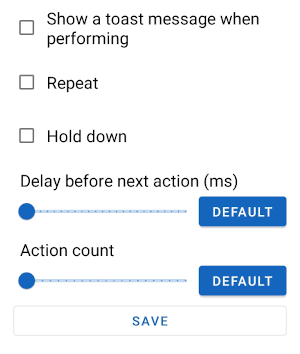
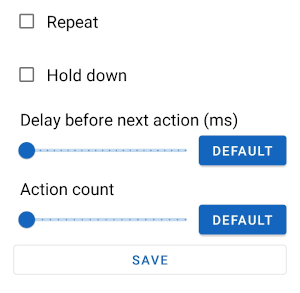
website: complete keymaps.md

diff --git a/docs/user-guide/keymaps.md b/docs/user-guide/keymaps.md
@@ -1,6 +1,105 @@
-## Options
+ Refer to the [Quick Start Guide](../quick-start.md) for help with creating key maps. This page gives more detail about every option.
 
-There are options for each trigger key by pressing the 3-dots on them. There are also more options for the whole trigger under the "options" tab. Here are explanations of each option.
+## Trigger
+
+A trigger is a combination of keys that must be pressed in a certain way to 'trigger' the key map. A key map can only have one trigger. You can change the order of the keys by holding down on one and then dragging it into a new position.
+ 
+This is the page to create a trigger for a key map.
+
+![](../images/trigger-page.png)
+
+### Trigger modes
+
+A trigger with one key doesn't have a mode. Triggers with more than one key can be one of two trigger modes: 'parallel' and 'sequence'. The button for a parallel trigger says 'at the same time' because this is more descriptive. The plus symbol between the keys will change to an arrow if the trigger is a sequence trigger. The developer has called them "parallel" triggers because you press it is one word and you press the keys in parallel.
+
+#### Parallel
+
+You must press the keys down at the same time to trigger the key map and the must be pressed down in the order as displayed from top to bottom. E.g For the trigger screenshot you must press volume up first and then volume down and not the other away around.
+
+#### Sequence
+
+You must press the keys down and up one after another to trigger the key map in a specified amount of time. This timeout is 1000ms by default and this default can be changed in the app [settings](settings.md). You can change the timeout for a specific key map by going to the options page for the key map as explained further down this page.
+
+### Key click type
+
+There are 3 click types: short press, long press and double press.
+
+Parallel triggers can only be short pressed or long pressed. The click type can be customised for each key in a sequence trigger by pressing on the 3 dot :fontawesome-solid-ellipsis-v: button on each key.
+
+#### Short press
+
+This is a simple press of the key and there are no restrictions to how you press it. The key map is triggered when this key is pressed down and doesn't need to be released to activate it. There are no options for this click type.
+
+#### Long press
+
+You need to hold down the key for at least some amount of time for it to trigger the key map. This is 500ms by default and this default can be changed in the app [settings](settings.md).  You can change the long press delay for all keys in a key map by going to the options page for the key map as explained further down this page.
+
+#### Double press
+
+You need to press down and release the key in rapid succession for it to trigger the key map. You must do this within 300ms by default and this default can be changed in the app [settings](settings.md).  You can change the double press timeout for all keys in a key map by going to the options page for the key map as explained further down this page.
+
+### Key device
+
+Tap the :devices: button on a key so that Key Mapper only detects the key when it comes from a specific device. The default device is 'this device', which means the Android device that you've installed Key Mapper on.
+
+External devices are only listed if they are connected to your Android device when you configure the key map. If you have multiple devices with the same name then turn on the setting to show the first 5 characters of the device ID in the app [settings](settings.md). This will help you distinguish between them.
+
+### Key options
+
+![](../images/hg-trigger-key-options-sequence.png)
+
+This menu pops up if you press the 3 dot :fontawesome-solid-ellipsis-v: button on a key.
+
+#### Do not override default action
+
+--8<-- "trigger-options/dont-override-default-action.md"
+
+#### Click type
+
+This will change the click type for a key in a sequence trigger. A parallel trigger key will not have the click type option because all the keys have the same click type. You will find the buttons to change a parallel trigger's click type above the trigger mode buttons as shown in the image at the top of this Trigger section.
+
+## Customising actions
+
+You can tap the 3 stacked dots :fontawesome-solid-ellipsis-v: to the right of the action's name to bring up the following menu.
+
+![](../images/hg-action-settings.png) ![](../images/hg-action-settings-light.png)
+
+Here you can customise a lot of the operation of your key map, including timing and multipliers.
+___
+
+--8<-- "action-options/delay-before-next-action.md"
+___
+
+--8<-- "action-options/action-count.md"
+___
+
+#### Repeating actions
+
+--8<-- "action-options/repeat.md"
+___
+
+--8<-- "action-options/repeat-every.md"
+___
+
+--8<-- "action-options/delay-until-repeat.md"
+___
+
+--8<-- "action-options/repeat-behaviour.md"
+
+#### Hold down actions
+
+--8<-- "action-options/hold-down.md"
+___
+
+--8<-- "action-options/hold-down-behaviour.md"
+
+#### Using 'Hold down' and 'Repeat' together
+
+--8<-- "action-options/using-hold-down-and-repeat-together.md"
+
+## Special options
+
+There are options for a key map under the 'Options' or 'Constraints and more' tab. Here are explanations of each option.
 
 ### Trigger from other apps (2.3.0+)
 
@@ -8,21 +107,21 @@ There are options for each trigger key by pressing the 3-dots on them. There are
 
 This allows you to trigger the key map by using a shortcut or by sending an [Intent](https://developer.android.com/reference/android/content/Intent) to Key Mapper. Turning this off will stop any shortcuts or Intents for this key map from working.
 
-### Home screen (launcher) shortcut
+#### Home screen (launcher) shortcut
 
 You can create a home screen shortcut by tapping "create launcher shortcut" or by adding the shortcut to your home screen in the same way as a widget. You can also use this shortcut from automation apps like Tasker and Automate without having to create a home screen shortcut.
 
-### Intent
+#### Intent
 
 There are many apps that can automate broadcasting Intents such as Tasker and Automate.
 
-#### Intent action
+##### Intent action
 
 ```
 io.github.sds100.keymapper.TRIGGER_KEYMAP_BY_UID
 ```
 
-#### Intent string extra 
+##### Intent string extra 
 
 ```
 io.github.sds100.keymapper.KEYMAP_UID
@@ -30,7 +129,7 @@ io.github.sds100.keymapper.KEYMAP_UID
 
 and the value is the UUID of the key map. You can copy the UUID in Key Mapper by turning on the "Trigger from other apps" option.
 
-#### Intent package (optional but recommended)
+##### Intent package (optional but recommended)
 
 ```
 io.github.sds100.keymapper
@@ -41,6 +140,34 @@ This will only send the Intent to Key Mapper and no other packages.
 !!! warning
     Add `.debug` or `.ci` to the end of all `io.github.sds100.keymapper` instances in the action, extra and package if your Key Mapper build is a debug or ci build respectively.
 
-### Detect Trigger When Screen is Off (ROOT)
+---
+
+--8<-- "trigger-options/on-screen-message.md"
+
+You can have your device vibrate instead of an on-screen message if you want. This option is below.
+
+---
+
+--8<-- "trigger-options/vibrate.md"
+
+--8<-- "trigger-options/long-press-double-vibration.md"
+
+This behaves similarly to the on-screen message option above.
+
+---
 
 --8<-- "trigger-options/trigger-when-screen-off.md"
+
+---
+
+--8<-- "trigger-options/long-press-delay.md"
+
+---
+
+--8<-- "trigger-options/double-press-delay.md"
+
+---
+
+--8<-- "trigger-options/sequence-trigger-timeout.md"
+
+---

diff --git a/docs/quick-start.md b/docs/quick-start.md
@@ -1,5 +1,5 @@
 This page aims to give users an introduction to the Key Mapper interface and a demonstration on how to perform typical tasks with the app.
-For specific troubleshooting, [consult the FAQ.](../faq)
+For specific troubleshooting, [consult the FAQ.](faq.md)
 
 --8<-- "screenshot-version.md"
 
@@ -116,13 +116,13 @@ You can choose from four different settings. Turning on "Do not override default
 
 One trigger can have three different click types. Choose from short press, long press and double press. [Read more.](#)
 
-### Action settings
+### Customising actions
 
 Next, tap the 3 stacked dots :fontawesome-solid-ellipsis-v: to the right of the action's name to bring up the following menu.
 
 ![](images/hg-action-settings.png) ![](images/hg-action-settings-light.png)
 
-Here you can customise a lot of the operation of your key map, including timing, multipliers and debug messages.
+Here you can customise a lot of the operation of your key map, including timing and multipliers.
 
 ___
 
@@ -145,68 +145,22 @@ ___
 --8<-- "action-options/delay-until-repeat.md"
 ___
 
-<sup><sub>&nbsp;Stop repeating when trigger is...</sup></sub><br />
-&nbsp;&nbsp;&nbsp;:radiobox-marked:{: .accent-light } <sup><sub>Released</sup></sub>&nbsp;&nbsp;&nbsp;&nbsp;&nbsp;&nbsp;&nbsp;&nbsp;&nbsp;&nbsp;&nbsp;&nbsp;&nbsp;&nbsp;&nbsp;&nbsp;&nbsp;&nbsp;&nbsp;&nbsp;&nbsp;&nbsp;&nbsp;:radiobox-marked:{: .accent-light } <sup><sub>Pressed again</sup></sub>
-
-This option allows you to choose from 2 simple behaviours. If you choose 'Released', you will need to hold down the trigger key(s) in order to have the key map execute. If you let go of the key(s), the key map will stop.
-
-If you choose 'Pressed again', pressing your trigger key(s) once will be sufficient to start your repeating key map. To stop the key map, you will need to press the trigger key(s) a second time.
-
-___
+--8<-- "action-options/repeat-behaviour.md"
 
 #### Hold down actions
 
-:fontawesome-solid-check-square:{: .accent-light } &nbsp; Hold down
-
-!!! info "Key Mapper 2.1.0+"
-
-This setting provides the ability to simulate holding down a key. With this turned on (and repeat turned off), the default behaviour is that holding down your trigger will translate to holding down the action, for as long as you hold down the trigger.
+--8<-- "action-options/hold-down.md"
 ___
 
-<sup><sub>&nbsp;Hold down until trigger is...</sup></sub><br />
-&nbsp;&nbsp;&nbsp;:radiobox-marked:{: .accent-light } <sup><sub>Released</sup></sub>&nbsp;&nbsp;&nbsp;&nbsp;&nbsp;&nbsp;&nbsp;&nbsp;&nbsp;&nbsp;&nbsp;&nbsp;&nbsp;&nbsp;&nbsp;&nbsp;&nbsp;&nbsp;&nbsp;&nbsp;&nbsp;&nbsp;&nbsp;:radiobox-marked:{: .accent-light } <sup><sub>Pressed again</sup></sub>
-
-!!! info "Key Mapper 2.2.0+"
-
-This setting allows you to choose from two behaviours. If 'Released' is selected, holding down your trigger key(s) will translate to holding down the action, for as long as you hold down the trigger key(s).
-
-If you choose 'Pressed again', pressing your trigger key(s) once will be sufficient to start holding down the action. To stop the key map, you will need to press the trigger key(s) a second time.
-
-___
+--8<-- "action-options/hold-down-behaviour.md"
 
 #### Using 'Hold down' and 'Repeat' together
 
-!!! info "Key Mapper 2.2.0+"
-
-You can use turn on both of these settings to unlock an additional setting. A repeating hold down action behaves like a normal 'Repeat' action in that the action repeats itself with a given frequency. It also behaves like a 'Hold down' action in that each individual action will be held for a certain amount of time in each cycle.
-
-&nbsp;Hold down duration (ms)<br /> 
-![](images/ui-slider-default-light-450px.png)
-
-This allows you to set how long the action is held down for before repeating.
+--8<-- "action-options/using-hold-down-and-repeat-together.md"
 
 ## Special options
 
-For extra key map customisation, tap the 'Constraints and more' tab at the top of the screen when editing or creating a key map.
-
-![](images/hg-keymap-4.png) ![](images/hg-keymap-4-light.png)
-
-:fontawesome-solid-check-square:{: .accent-light } &nbsp; Trigger from other apps
-
-For information about "trigger from other apps" go to [this page.](../user-guide/trigger/#trigger-from-other-apps-230)
-___
-
---8<-- "trigger-options/on-screen-message.md"
-
-You can have your device vibrate instead of an on-screen message if you want. This option is below.
-
----
---8<-- "trigger-options/vibrate.md"
-
-This behaves similarly to the on-screen message option above.
-
----
---8<-- "trigger-options/trigger-when-screen-off.md"
+You can see explanations of more options [here](../user-guide/keymaps/#special-options).
 
 ## Adding constraints
 

diff --git a/docs/includes/action-options/hold-down-behaviour.md b/docs/includes/action-options/hold-down-behaviour.md
@@ -1,0 +1,8 @@
+<sup><sub>&nbsp;Hold down until trigger is...</sup></sub><br />
+&nbsp;&nbsp;&nbsp;:radiobox-marked:{: .accent-light } <sup><sub>Released</sup></sub>&nbsp;&nbsp;&nbsp;&nbsp;&nbsp;&nbsp;&nbsp;&nbsp;&nbsp;&nbsp;&nbsp;&nbsp;&nbsp;&nbsp;&nbsp;&nbsp;&nbsp;&nbsp;&nbsp;&nbsp;&nbsp;&nbsp;&nbsp;:radiobox-marked:{: .accent-light } <sup><sub>Pressed again</sup></sub>
+
+!!! info "Key Mapper 2.2.0+"
+
+This setting allows you to choose from two behaviours. If 'Released' is selected, holding down your trigger key(s) will translate to holding down the action, for as long as you hold down the trigger key(s).
+
+If you choose 'Pressed again', pressing your trigger key(s) once will be sufficient to start holding down the action. To stop the key map, you will need to press the trigger key(s) a second time.

diff --git a/docs/includes/repeat-behaviour.md b/docs/includes/repeat-behaviour.md
@@ -1,0 +1,6 @@
+<sup><sub>&nbsp;Stop repeating when trigger is...</sup></sub><br />
+&nbsp;&nbsp;&nbsp;:radiobox-marked:{: .accent-light } <sup><sub>Released</sup></sub>&nbsp;&nbsp;&nbsp;&nbsp;&nbsp;&nbsp;&nbsp;&nbsp;&nbsp;&nbsp;&nbsp;&nbsp;&nbsp;&nbsp;&nbsp;&nbsp;&nbsp;&nbsp;&nbsp;&nbsp;&nbsp;&nbsp;&nbsp;:radiobox-marked:{: .accent-light } <sup><sub>Pressed again</sup></sub>
+
+This option allows you to choose from 2 simple behaviours. If you choose 'Released', you will need to hold down the trigger key(s) in order to have the key map execute. If you let go of the key(s), the key map will stop.
+
+If you choose 'Pressed again', pressing your trigger key(s) once will be sufficient to start your repeating key map. To stop the key map, you will need to press the trigger key(s) a second time.

diff --git a/docs/contributing.md b/docs/contributing.md
@@ -21,7 +21,7 @@ It is important to use consistent language within the app's code and documentati
 
 No title case unless it is the title of a webpage, section heading. No title case in the string resources in the source code at all.
 
-Here are words and phrases that can be spelt or capitalised in multiple ways.
+Here are words and phrases that have been spelt inconsistently by the developer and everyone should follow these guidelines. 
 
 | Terminology           | Correct 😍                                                    | Incorrect 👿                        |
 | --------------- | ------------------------------------------------------------ | ---------------------------------- |

diff --git a/docs/includes/action-options/action-count.md b/docs/includes/action-options/action-count.md
@@ -1,6 +1,6 @@
 &nbsp;Action count<br /> 
-![](../images/ui-slider-default-light-450px.png)
+![](../../images/ui-slider-default-light-450px.png)
 
 !!! info "Key Mapper 2.1.0+"
 
-This option serves as a multiplier. If action count is equal to 1 when your gesture map is triggered then your action will be performed once. If it is equal to 5 then the action will be performed 5 times, etc.
+This option serves as a multiplier. If action count is equal to 1 when your mapping is triggered then your action will be performed once. If it is equal to 5 then the action will be performed 5 times, etc.

diff --git a/docs/includes/action-options/using-hold-down-and-repeat-together.md b/docs/includes/action-options/using-hold-down-and-repeat-together.md
@@ -1,0 +1,8 @@
+!!! info "Key Mapper 2.2.0+"
+
+You can use turn on both of these settings to unlock an additional setting. A repeating hold down action behaves like a normal 'Repeat' action in that the action repeats itself with a given frequency. It also behaves like a 'Hold down' action in that each individual action will be held for a certain amount of time in each cycle.
+
+&nbsp;Hold down duration (ms)<br /> 
+![](../../images/ui-slider-default-light-450px.png)
+
+This allows you to set how long the action is held down for before repeating.

diff --git a/docs/includes/action-options/repeat-every.md b/docs/includes/action-options/repeat-every.md
@@ -1,5 +1,5 @@
 &nbsp;Repeat every... (ms)<br /> 
-![](../images/ui-slider-default-light-450px.png)
+![](../../images/ui-slider-default-light-450px.png)
 
 This option sets the time period for your repeating action. If this is set to 200, your action will repeat every 200ms, or in terms of frequency, 5 times per second. Some people prefer to think about this setting as a repeat rate, commonly measured in 'clicks' per second or cps. To calculate the appropriate time period for this option from a desired frequency, use this equation:
 

diff --git a/docs/includes/action-options/delay-before-next-action.md b/docs/includes/action-options/delay-before-next-action.md
@@ -1,6 +1,6 @@
 &nbsp;Delay before next action (ms)<br />
-![](../images/ui-slider-default-light-450px.png)
+![](../../images/ui-slider-default-light-450px.png)
 
 !!! info "Key Mapper 2.2.0+"
 
-This option takes effect if you have multiple actions in your gesture map. The slider sets the amount of time between this action and the next.
+This option takes effect if you have multiple actions in your mapping. The slider sets the amount of time between this action and the next.

diff --git a/docs/includes/action-options/delay-until-repeat.md b/docs/includes/action-options/delay-until-repeat.md
@@ -1,4 +1,4 @@
 &nbsp;Delay until repeat... (ms)<br /> 
-![](images/ui-slider-default-light-450px.png)
+![](../../images/ui-slider-default-light-450px.png)
 
 This option sets the amount of time between the first action and the second action (or the first repeat). This is part of the keyboard key behaviour simulation. If you want your repeating action to begin straight away, you can make this 0. 

diff --git a/docs/includes/trigger-options/vibrate.md b/docs/includes/trigger-options/vibrate.md
@@ -1,6 +1,6 @@
 :fontawesome-solid-check-square:{: .accent-light } &nbsp; Vibrate
 
 &nbsp;Vibrate duration (ms)<br /> 
-![](../images/ui-slider-default-light-450px.png)
+![](../../images/ui-slider-default-light-450px.png)
 
 Tapping 'Vibrate' will cause your device to vibrate whenever you trigger your mapping. You can change how long your device vibrates with the slider.

diff --git a/docs/includes/trigger-options/double-press-delay.md b/docs/includes/trigger-options/double-press-delay.md
@@ -1,0 +1,5 @@
+
+&nbsp;Double press timeout (ms)<br />
+![](../../images/ui-slider-default-light-450px.png)
+
+This is only shown if a trigger has at least one key that needs to double pressed. This option will change the maximum amount of time that a button needs to be double pressed so that it is detected as a double press.
